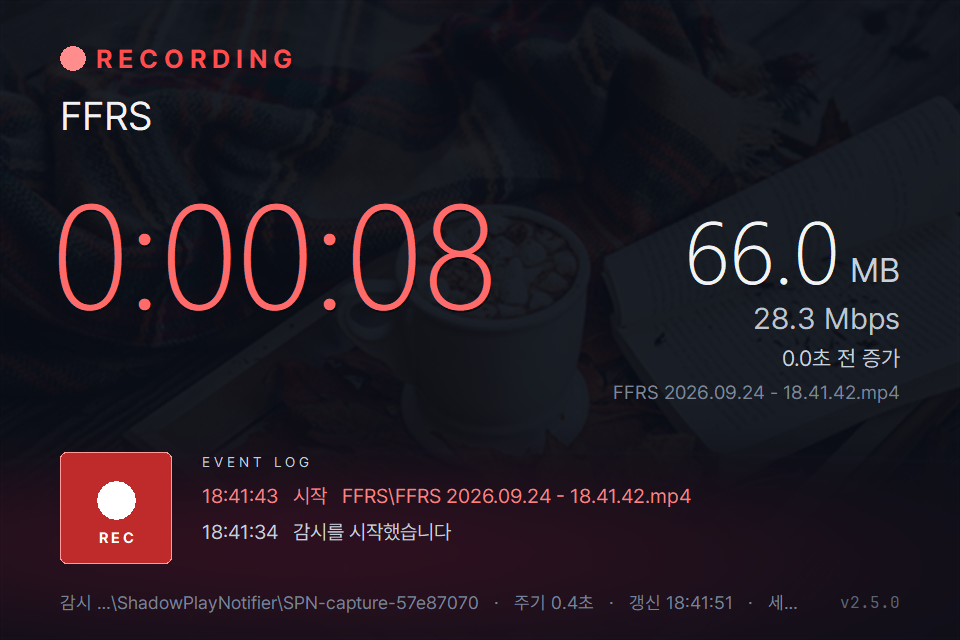
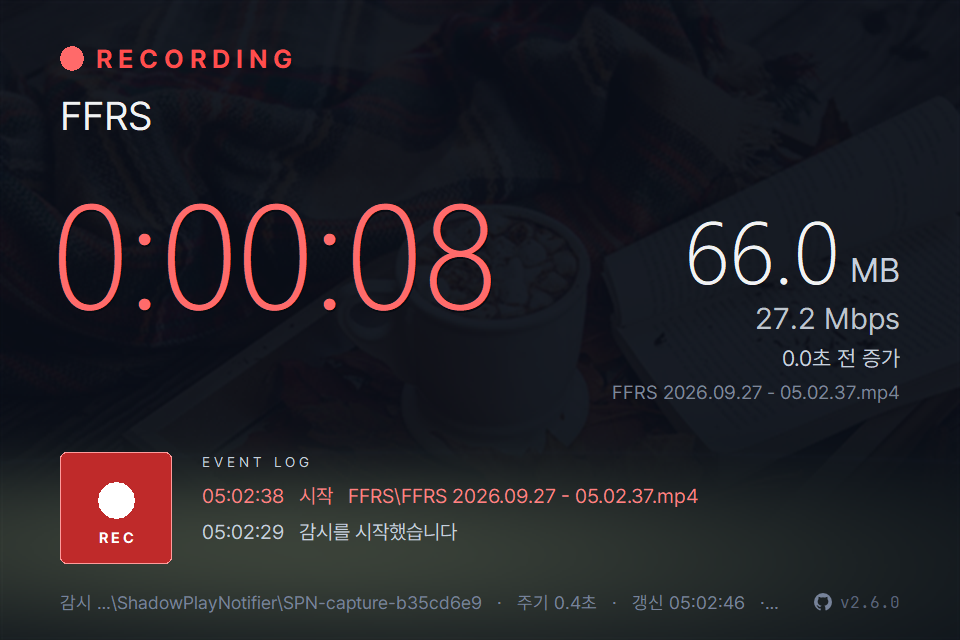
2.6.0: 시작 시 업데이트 확인 및 화면 개선

diff --git a/index.html b/index.html
@@ -366,7 +366,7 @@ footer .links { display: flex; gap: 18px; flex: none; }
     <div class="hero-tags">
       <p class="status"><span class="dot"></span><span class="mono">Watching · Idle</span></p>
       <a class="relpill" href="https://github.com/deuxdoom/Shadowplay-Notifier/releases/latest">
-        <span class="mono">Release</span><b data-ver>v2.5.0</b>
+        <span class="mono">Release</span><b data-ver>v2.6.0</b>
         <svg class="icon" aria-hidden="true"><use href="#i-chevron"/></svg>
       </a>
     </div>
@@ -584,7 +584,7 @@ footer .links { display: flex; gap: 18px; flex: none; }
     <span>ShadowPlay Notifier</span>
     <span>Windows 10 · 11</span>
     <span>MIT License</span>
-    <span class="last" id="ver">v2.5.0</span>
+    <span class="last" id="ver">v2.6.0</span>
   </div>
   <footer>
     <div class="rows">

diff --git a/CHANGELOG.md b/CHANGELOG.md
@@ -3,6 +3,27 @@
 이 파일의 형식은 [Keep a Changelog 1.1.0](https://keepachangelog.com/ko/1.1.0/)을
 따르며, 버전은 [유의적 버전 2.0.0](https://semver.org/lang/ko/)을 따릅니다.
 
+## [2.6.0] - 배포 예정
+
+### 새 기능
+
+- **프로그램을 시작하면 최신 정식 버전을 자동으로 확인합니다.** 새 버전이 있을
+  때만 안내 창을 띄우며, 업데이트 버튼을 누르면 설치합니다. 최신 버전이거나
+  인터넷에 연결하지 못한 경우에는 팝업 없이 감시를 계속합니다.
+- 하단 버전 앞에 GitHub 아이콘을 추가했습니다. 아이콘이나 버전을 클릭하면
+  GitHub 프로젝트 페이지가 열립니다.
+
+### 변경
+
+- **소리 막대를 64개에서 24개로 줄였습니다.** 각 막대가 서로 다른 주파수 대역을
+  직접 따라가므로 이웃 막대가 파도처럼 한 덩어리로 움직이는 느낌을 줄였습니다.
+  임의의 움직임을 더하지 않고 실제 소리의 변화만 반영합니다.
+- 도시 이름의 영문은 항상 대문자로 표시합니다.
+
+[2.6.0]: https://github.com/deuxdoom/Shadowplay-Notifier/releases/tag/2.6.0
+
+---
+
 ## [2.5.0] - 2026-09-24
 
 출력 장치를 바꾸거나 헤드셋을 끊어도 소리 막대가 멈추지 않고 새 장치를 따라갑니다.
